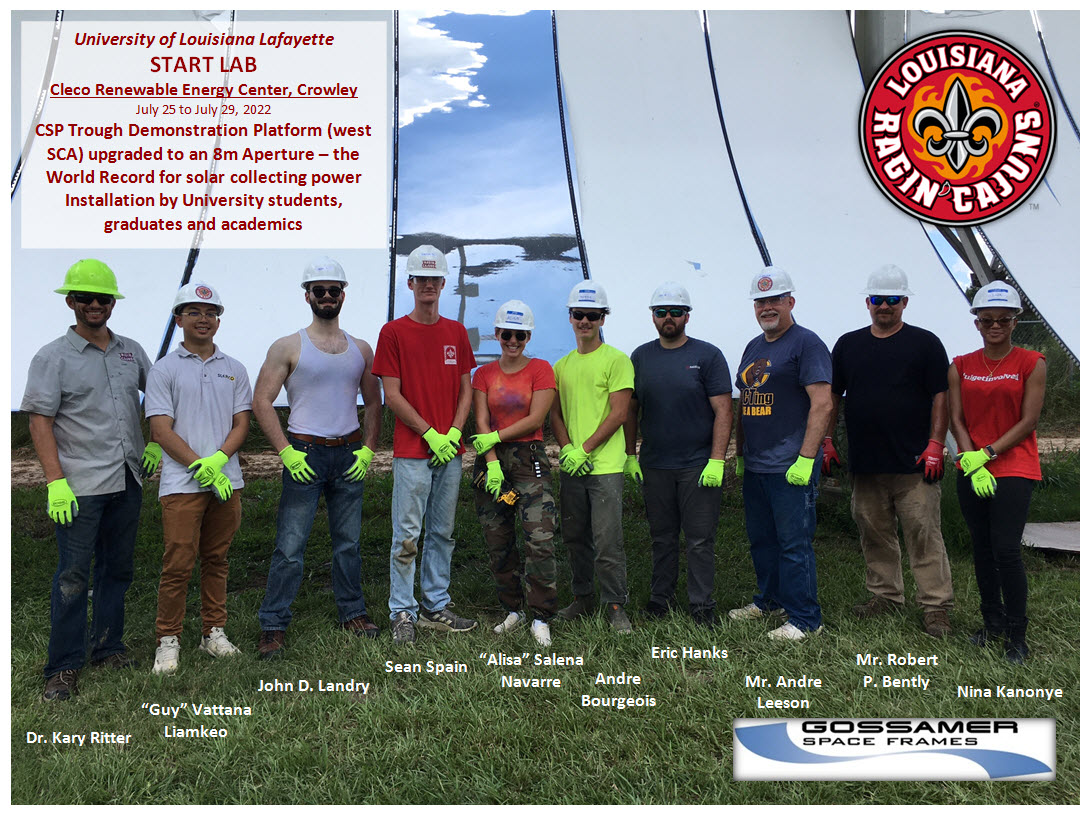
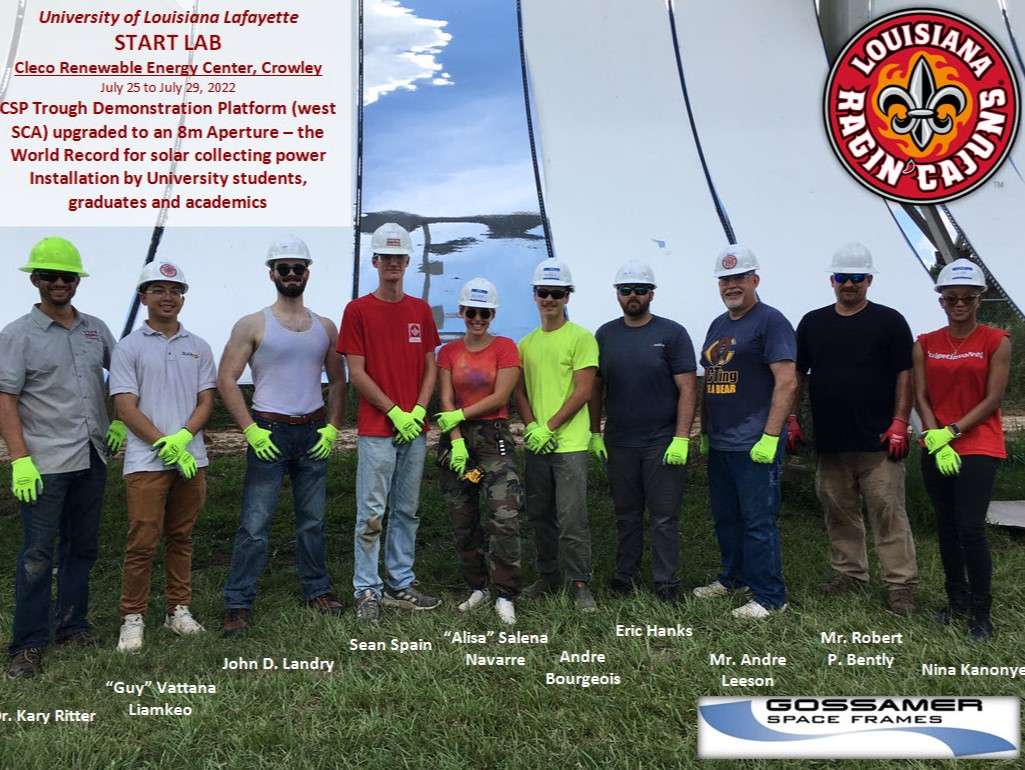
image resize

diff --git a/templates/index.html b/templates/index.html
@@ -85,7 +85,7 @@
 								 
 								 <img src="static/images/femur_code.png" alt="" style="width:auto;max-width:100%;border:3px solid white;vertical-align:middle;margin:50px 0px"> 
 								 
-								 <img src="static/images/femur.png" alt="" style="border:3px solid white;vertical-align:middle;margin:50px 0px" width="540" height="278"> 
+								 <img src="static/images/femur.png" alt="" style="width:auto;max-width:100%;border:3px solid white;vertical-align:middle;margin:50px 0px"> 
 
 
 
@@ -99,13 +99,14 @@
 								  
 								 
 								  <h2 style="font-size:25px;font-family:Roboto"> Freshman Challenge</h2>
-								<img src="static/images/scrambler_info.png" alt="" style="border:3px solid white;vertical-align:middle;margin:50px 0px" width="900" height="500"/>
+								
 								<video width="550" height="440" controls>
 									<source src="static/images/scrambler.mp4" type="video/mp4">
 									Your browser does not support HTML video.
 								  </video>
-								<img src="static/images/Coin_holder.jpg" alt="" style="border:3px solid white;vertical-align:middle;margin:50px 0px" width="700" height="380" />
-								<img src="static/images/Coin_holder2.png" alt="" style="border:3px solid white;vertical-align:middle;margin:50px 0px" width="700" height="350"/>
+								  <img src="static/images/scrambler_info.png" alt="" style="width:auto;max-width:100%;border:3px solid white;vertical-align:middle;margin:50px 0px"/>
+								<img src="static/images/Coin_holder.jpg" alt="" style="width:auto;max-width:100%;border:3px solid white;vertical-align:middle;margin:50px 0px" />
+								<img src="static/images/Coin_holder2.png" alt="" style="width:auto;max-width:100%;border:3px solid white;vertical-align:middle;margin:50px 0px"/>
 								</span>
 								
 							</article>
